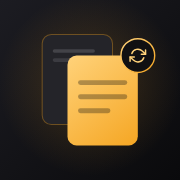
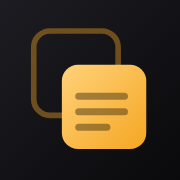
redesign(brand): replace the mark with two offset cards, drop the sync-badge
The mark — two overlapping solid cards plus a separate circular badge with
a refresh-arrow glyph — read as a generic icon-generator composition. The
refresh-arrow specifically is close to the single most common "sync" stock
icon there is (Material Design's own sync icon, used identically by
thousands of unrelated apps), doing nothing to make the mark ownable, and
researched icon-design guidance (Lucide's published rules; app-icon best-
practice writeups) converged on the same points: simple geometric
silhouette, high contrast, one color doing the work, avoid the generic-
composition look.

Redrawn as two offset rounded cards — an outlined back card suggesting
"the other synced copy", a solid front card with bold content lines — so
the offset itself carries the sync/mirroring meaning instead of a bolted-
on badge. Verified via rendered comparison from native 16px up to 512px,
across all 10 themes (via the runtime theme-matched-favicon path) — holds
up clearly at every size without a separate simplified variant.

presskit/icon/icon-simple.svg (a second SVG kept specifically because the
old mark's detail didn't survive small sizes) is gone — the new mark does,
so there's one source file instead of two that could silently drift apart.
generate-icon-pngs.mjs, src/theme.js's runtime favicon renderer, and every
doc describing the two-file setup updated to match.

diff --git a/src/theme.js b/src/theme.js
@@ -38,21 +38,22 @@ export function applyTheme(id) {
 }
 
 // ── Theme-matched favicon ────────────────────────────────────────────────────
-// The browser-tab favicon is the same bold single-card mark as
-// assets/favicon.svg, but recolored to the active theme's own tile
-// background and accent — so switching themes re-tints the tab icon along
-// with the rest of the app instead of it staying a fixed amber regardless
-// of theme. Built inline as a data: URI rather than shipping 10 separate
+// The browser-tab favicon is the same two-card mark as assets/favicon.svg
+// (see presskit/icon/icon.svg), but recolored to the active theme's own
+// tile background and accent — so switching themes re-tints the tab icon
+// along with the rest of the app instead of it staying a fixed amber
+// regardless of theme. Built inline as a data: URI rather than shipping 10
 // pre-rendered SVG files, since the only thing that ever changes between
-// them is two fill colors.
+// them is the tile and card colors.
 function _faviconSvg(bg, accent) {
   return `<svg xmlns="http://www.w3.org/2000/svg" viewBox="0 0 512 512">`
     + `<rect width="512" height="512" rx="112" fill="${bg}"/>`
-    + `<rect x="140" y="120" width="232" height="272" rx="34" fill="${accent}"/>`
-    + `<g transform="translate(178,196) scale(4.9)" fill="none" stroke="#0f0f11" stroke-width="2.4" stroke-linecap="round" stroke-linejoin="round">`
-    + `<polyline points="23 4 23 10 17 10"/><polyline points="1 20 1 14 7 14"/>`
-    + `<path d="M3.51 9a9 9 0 0 1 14.85-3.36L23 10M1 14l4.64 4.36A9 9 0 0 0 20.49 15"/>`
-    + `</g></svg>`;
+    + `<rect x="96" y="88" width="240" height="240" rx="46" fill="none" stroke="${accent}" stroke-opacity="0.4" stroke-width="16"/>`
+    + `<rect x="176" y="184" width="240" height="240" rx="46" fill="${accent}"/>`
+    + `<rect x="214" y="264" width="150" height="20" rx="10" fill="#1c1305" fill-opacity="0.4"/>`
+    + `<rect x="214" y="308" width="150" height="20" rx="10" fill="#1c1305" fill-opacity="0.4"/>`
+    + `<rect x="214" y="352" width="100" height="20" rx="10" fill="#1c1305" fill-opacity="0.4"/>`
+    + `</svg>`;
 }
 
 // Rasterize the themed SVG to a PNG data: URI at the given size, via an

diff --git a/index.html b/index.html
@@ -29,15 +29,15 @@
   <link rel="manifest"         href="/SyncPad/manifest.json" />
   <!-- Favicon: the SVG is the primary reference (crisp at any tab/bookmark
        size); the 32/16 PNGs are the fallback for browsers that don't
-       support SVG favicons. All three come from icon-simple.svg — a bold
-       single-card mark tuned for legibility this small, distinct from the
-       fuller two-card mark below used where icons render larger (install
-       icon, home-screen icon) and can afford the extra detail. This SVG
-       link's href is also the one src/theme.js's applyTheme() re-tints to
-       the active theme's own colors at runtime (a data: URI replacing this
-       static file) — this static file is only what's visible before JS
-       runs / for the PNG-favicon fallback browsers, which don't get the
-       theme-matched version. -->
+       support SVG favicons. All three come from the same source mark as
+       the larger install/home-screen icons below (presskit/icon/icon.svg)
+       — tested down to native 16px and still reads clearly, so there's no
+       separate small-size variant to keep in sync. src/theme.js's
+       applyTheme() re-tints all three of these <link> hrefs to the active
+       theme's own colors at runtime (a data: URI replacing each static
+       file — instant for the SVG link, a rasterized PNG data: URI for the
+       other two); these static files are only what's visible before that
+       JS runs. -->
   <link rel="icon"             href="/SyncPad/assets/favicon.svg" type="image/svg+xml" />
   <link rel="icon"             href="/SyncPad/assets/favicon-32.png" type="image/png" sizes="32x32" />
   <link rel="icon"             href="/SyncPad/assets/favicon-16.png" type="image/png" sizes="16x16" />

diff --git a/docs/marketing-site.md b/docs/marketing-site.md
@@ -189,7 +189,7 @@ network or Supabase — everything is rendered from local HTML/SVG/CSS.
 
 | Script | What it does |
 |---|---|
-| `scripts/generate-icon-pngs.mjs` | Rasterizes `presskit/icon/icon.svg` and `icon-simple.svg` to the PNG sizes listed in `presskit/README.md#icon`, and also writes the app's own shipped icons (`assets/icon-192.png`, `assets/icon-512.png`, `assets/apple-touch-icon.png`, `assets/favicon.svg`, `assets/favicon-32.png`, `assets/favicon-16.png`) |
+| `scripts/generate-icon-pngs.mjs` | Rasterizes `presskit/icon/icon.svg` to the PNG sizes listed in `presskit/README.md#icon`, and also writes the app's own shipped icons (`assets/icon-192.png`, `assets/icon-512.png`, `assets/apple-touch-icon.png`, `assets/favicon.svg`, `assets/favicon-32.png`, `assets/favicon-16.png`) |
 | `scripts/build-mockups.mjs` | Pulls real screens (header, editor, side panels, share modal, encryption gate) out of `index.html` by id (via `scripts/lib/extract-fragment.mjs`) and writes six standalone HTML files to `scripts/mockups/`, populated with realistic placeholder content |
 | `scripts/generate-screenshots.mjs` | Serves the repo with `tests/spa-server.js` and screenshots each `scripts/mockups/*.html` into `presskit/screenshot/` |
 | `scripts/generate-demo-video.mjs` | Drives the real app markup/CSS through a scripted ~25s sequence (type → live-render → simulated second device → Share modal → Files panel) and assembles it into `presskit/video/demo.mp4` + a poster frame — see `presskit/video/README.md` for why it captures frame-by-frame instead of using Playwright's `recordVideo` |
@@ -201,7 +201,7 @@ any panel/modal touched by the mockups:
 npm run presskit:screenshots
 ```
 
-Regenerate icons after editing either source SVG:
+Regenerate icons after editing the source SVG:
 
 ```bash
 npm run presskit:icons
@@ -216,16 +216,19 @@ npm run presskit:video
 
 The icon script also writes the app's own shipped icons straight into
 `assets/`: `icon-192.png`/`icon-512.png` (the real PWA install icons
-`manifest.json` references) and `apple-touch-icon.png` all render from the
-full two-card `icon.svg` mark, since they display large enough (home
-screen, app switcher) for the detail to read clearly. `favicon.svg` (a copy
-of `icon-simple.svg`) plus its `favicon-32.png`/`favicon-16.png` PNG
-fallbacks — what `index.html`'s `<link rel="icon">` tags actually
-reference for the browser tab — render from the bold single-card variant
-instead: at 16–32px the full mark's two overlapping cards and small ring
-badge blur into an indistinct smudge, where the single-card glyph stays
-legible. One script run keeps the installed-app icon, the browser-tab
-favicon, and the press-kit mark all in sync with the same two source SVGs.
+`manifest.json` references), `apple-touch-icon.png`, and `favicon.svg`
+plus its `favicon-32.png`/`favicon-16.png` PNG fallbacks (what
+`index.html`'s `<link rel="icon">` tags actually reference for the browser
+tab) — all render from the same single `presskit/icon/icon.svg` mark. An
+earlier version of the mark kept a separate simplified SVG for favicon/
+small sizes on the assumption a detailed design wouldn't hold up that
+small; the current mark (two offset rounded cards, no fussy detail) was
+tested down to native 16px and reads clearly at every size in between, so
+there's no small-size variant left to keep in sync — one script run and
+one source file cover the installed-app icon, the browser-tab favicon, and
+the press-kit mark alike. `src/theme.js`'s `applyTheme()` separately
+re-tints all three `<link rel="icon">` hrefs at runtime to match the
+active theme, without touching these static files.
 
 ### Why mockups instead of live screenshots
 

diff --git a/CHANGELOG.md b/CHANGELOG.md
@@ -8,6 +8,19 @@ The format is based on [Keep a Changelog](https://keepachangelog.com/en/1.1.0/).
 
 ## [Unreleased]
 
+### Phase 48 — Brand mark redesign, code-fence visual proportion, landing demo keyboard nav
+
+#### Changed
+- **Brand mark redesigned.** The mark (two overlapping solid cards + a separate circular refresh-arrow badge) read as a generic icon-generator composition — the refresh-arrow glyph in particular is close to the single most common "sync" stock icon there is, doing nothing to make the mark ownable. Replaced with two offset rounded cards — an outlined back card, a solid front card with bold content lines — where the offset itself suggests sync/mirroring instead of a bolted-on badge. `presskit/icon/icon-simple.svg` (a separate "simplified" SVG for favicon/small sizes) is gone: the new mark was tested down to native 16px and reads clearly at every size up to 512px, so `icon.svg` is now the single source for the press kit, the PWA install icons, and the browser-tab favicon alike — one less place for two files to silently drift apart. `scripts/generate-icon-pngs.mjs` and `src/theme.js`'s runtime theme-matched-favicon renderer both updated to match.
+- **Fenced code blocks narrowed to 90% of the content measure** (desktop only; full width below 768px). Not an overflow fix — code blocks were already contained to the same measure as headings/paragraphs — but a bordered/backgrounded box reaching flush to both edges reads as more prominent than prose, which rarely wraps all the way to the edge, so blocks visually dominated the page despite being the "correct" width on paper. Still left-aligned to the same edge as the rest of the content; `overflow-x:auto` still covers any line that doesn't fit even the narrower box.
+
+#### Added
+- **Theme-matched favicon.** The browser-tab favicon now re-tints to the active theme's own background/accent colors whenever the theme changes, including the PNG `<link>` fallbacks for browsers without SVG-favicon support (rasterized via an offscreen canvas, async).
+- **Keyboard navigation for the landing page's two tablists** (the coded demo's scene tabs, the "SyncPad features" tabs) — Left/Right/Home/End roving focus per the ARIA APG Tabs pattern; previously click-only plus default per-button Tab stops.
+
+#### Fixed
+Two rounds of Codex review findings on this phase's changes, all confirmed real and fixed: the PNG favicon fallbacks not re-tinting on theme change; `markdownToPlainText()` silently dropping image alt text and running table cells together with no separator; the document mini-map rebuilding on ordinary scrolling (traced to CM6 raising `geometryChanged` from virtualized-viewport DOM churn, not just real content/size changes — fixed with a tolerance-based "did anything actually change" comparison in `rebuild()` itself, including comparing each heading's exact document offset so a stale tick can never silently outlive an edit); the minimap's keyboard-nav helper consuming vertical arrow keys in a horizontal tablist; the file-preview modal's code narrowing not gated to desktop; and PWA install icons (`icon-192.png`/`icon-512.png`/`apple-touch-icon.png`) rasterizing with transparent corners despite `manifest.json` declaring them maskable.
+
 ### Phase 47 — Follow-up polish: export-copy-text bug, dead-code sweep, emoji shortcodes, favicon set
 
 #### Fixed

diff --git a/presskit/README.md b/presskit/README.md
@@ -127,13 +127,16 @@ presskit/
 
 ### Icon
 
-- [`icon/icon.svg`](icon/icon.svg) — full source-of-truth mark (two synced
-  "pad" cards + a sync-loop badge)
-- [`icon/icon-simple.svg`](icon/icon-simple.svg) — a single-card variant
-  tuned for legibility at favicon/small sizes
+- [`icon/icon.svg`](icon/icon.svg) — the single source-of-truth mark: two
+  offset rounded "pad" cards (an outlined back card, a solid front card
+  with content lines) — the offset itself suggests sync/mirroring, rather
+  than a separate refresh-arrow badge. Tested down to native 16px and
+  still reads clearly, so this one file covers everything from the
+  browser-tab favicon up to the 512px install icon — no separate
+  small-size variant to keep in sync.
 - Pre-rendered PNGs: `icon-512.png`, `icon-256.png`, `icon-128.png`,
   `favicon.png` (64×64), `favicon-32.png`
-- Regenerate the PNGs after editing either SVG with `npm run presskit:icons`
+- Regenerate the PNGs after editing the SVG with `npm run presskit:icons`
   (see [the repo's scripts documentation](../docs/marketing-site.md#scripts)
   for details and how to add more sizes)
 
